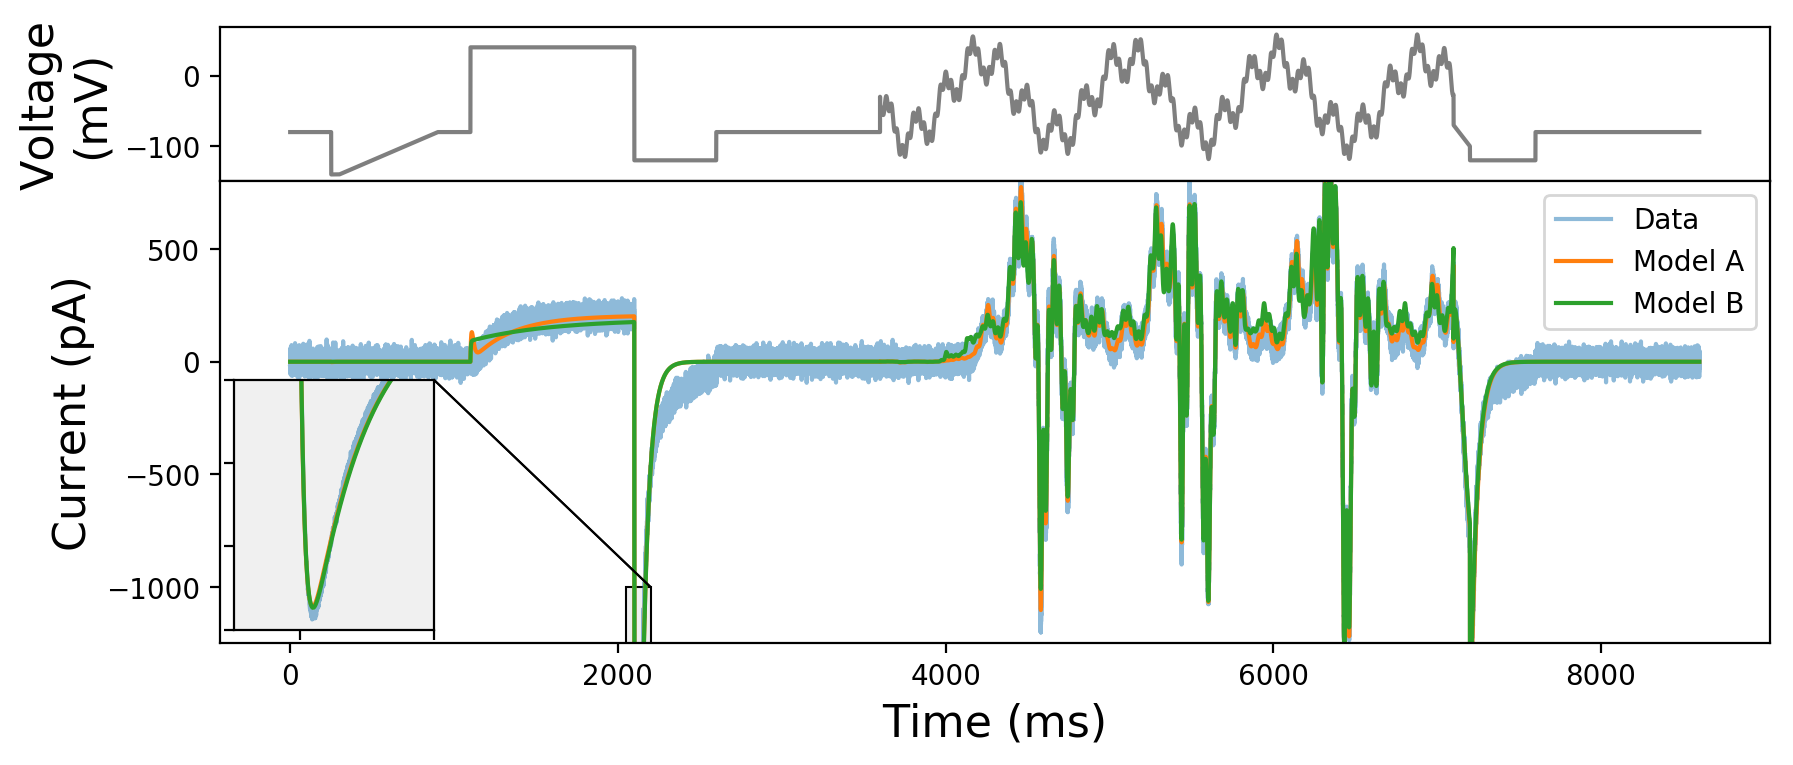
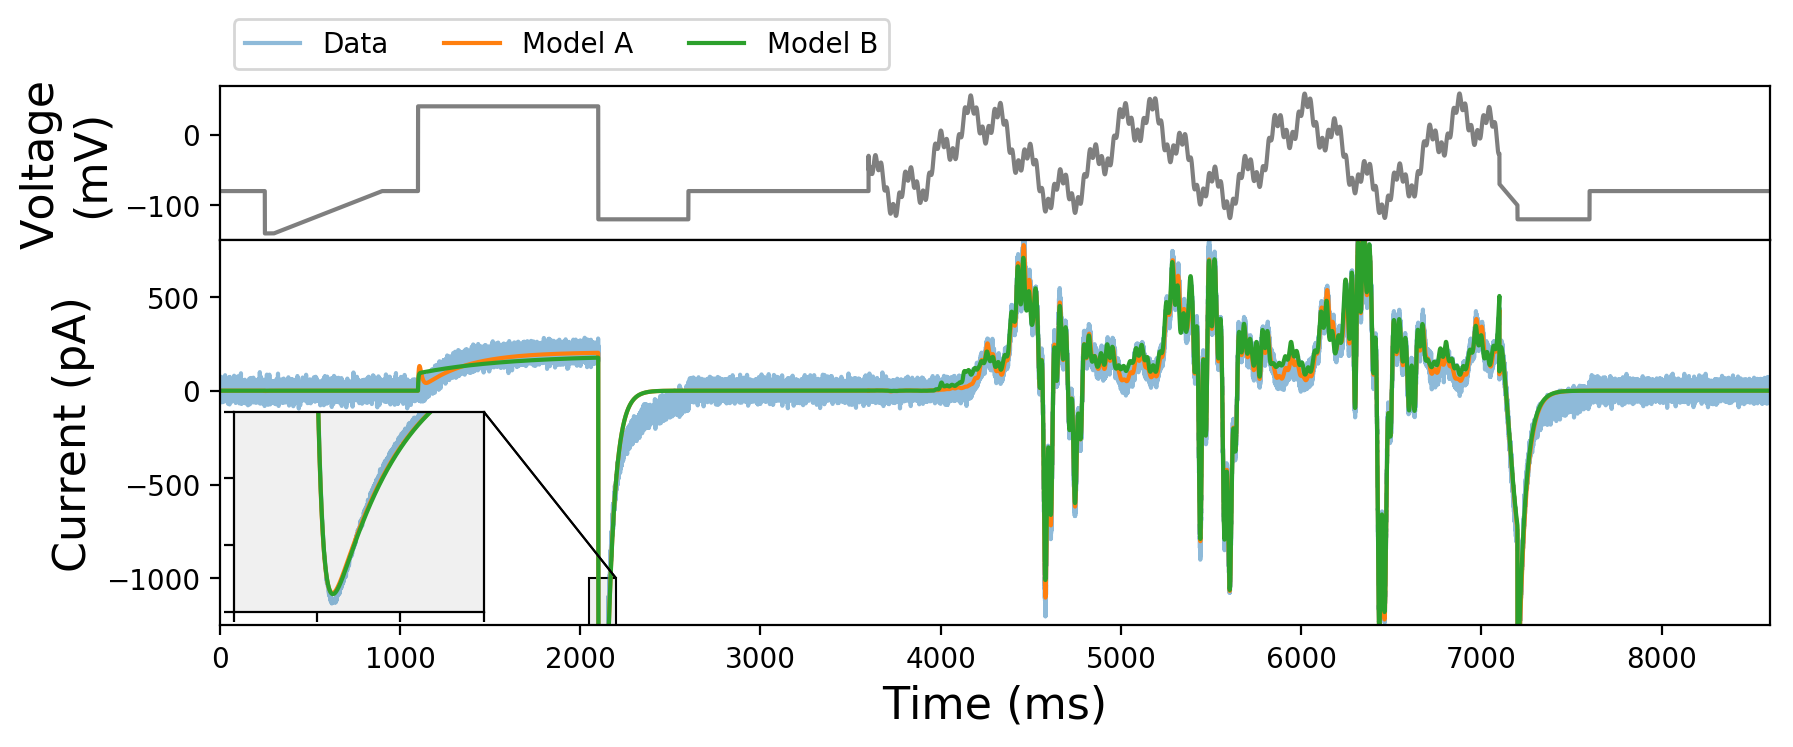
Change figure size

diff --git a/ion-channel-models/compare.py b/ion-channel-models/compare.py
@@ -98,8 +98,8 @@ for p in cal_params_b:
     predictions_b.append(model_b.simulate(p, times))
 
 # Plot
-fig, axes = plt.subplots(2, 1, sharex=True, figsize=(10, 4),
-        gridspec_kw={'height_ratios': [1, 3]})
+fig, axes = plt.subplots(2, 1, sharex=True, figsize=(10, 3.5),
+        gridspec_kw={'height_ratios': [1, 2.5]})
 is_predict = ' prediction' if which_predict != 'sinewave' else ''
 sim_protocol = model_a.voltage(times)  # model_b should give the same thing
 axes[0].plot(times, sim_protocol, c='#7f7f7f')
@@ -133,9 +133,13 @@ for i_zoom, (w, h, loc) in enumerate(zoom.inset_setup):
             loc2=zoom.mark_setup[i_zoom][1], fc="none", lw=0.75, ec='k')
     pp.set_fill(True); pp.set_facecolor("#f0f0f0")
 
-axes[1].legend()
+if which_predict == 'sinewave':
+    axes[1].legend(loc='lower left', bbox_to_anchor=(0, 1.02), ncol=3,
+            bbox_transform=axes[0].transAxes)
 axes[1].set_ylabel('Current (pA)', fontsize=16)
 axes[1].set_xlabel('Time (ms)', fontsize=16)
+for i in range(2):
+    axes[i].set_xlim((times[0], times[-1]))
 
 plt.subplots_adjust(hspace=0)
 plt.savefig('%s/%s' % (savedir, saveas), bbox_inches='tight', dpi=200)

diff --git a/ion-channel-models/protocol-time-series/staircase_to_zoom.py b/ion-channel-models/protocol-time-series/staircase_to_zoom.py
@@ -3,6 +3,6 @@
 set_ylim = [-200, 2300]
 set_xlim_ins = [[1850, 2200], [14350, 14600]]
 set_ylim_ins = [[-4000, 0], [-2500, 500]]
-inset_setup = [(1, 1.25, 'upper center'), (0.7, 1.25, 'upper right')]
-mark_setup = [(2, 2), (2, 2)]
+inset_setup = [(1, 1.25, 'upper left'), (0.7, 1.25, 'upper right')]
+mark_setup = [(1, 1), (2, 2)]
 

diff --git a/ion-channel-models/protocol-time-series/ap_to_zoom.py b/ion-channel-models/protocol-time-series/ap_to_zoom.py
@@ -3,6 +3,6 @@
 set_ylim = [-200, 4200]
 set_xlim_ins = [[4350, 4450], [7300, 7550]]
 set_ylim_ins = [[-100, 4800], [-2450, 200]]
-inset_setup = [(1, 1.25, 'upper left'), (1, 1.25, 'lower right')]
+inset_setup = [(1, 1.25, 'upper left'), (1, 1.25, 'upper right')]
 mark_setup = [(3, 3), (2, 2)]
 

diff --git a/ion-channel-models/protocol-time-series/sinewave_to_zoom.py b/ion-channel-models/protocol-time-series/sinewave_to_zoom.py
@@ -3,6 +3,6 @@
 set_ylim = [-1250, 800]
 set_xlim_ins = [[2050, 2200]]
 set_ylim_ins = [[-4000, -1000]]
-inset_setup = [(1, 1.25, 'lower left')]
+inset_setup = [(1.25, 1, 'lower left')]
 mark_setup = [(1, 1)]
 
